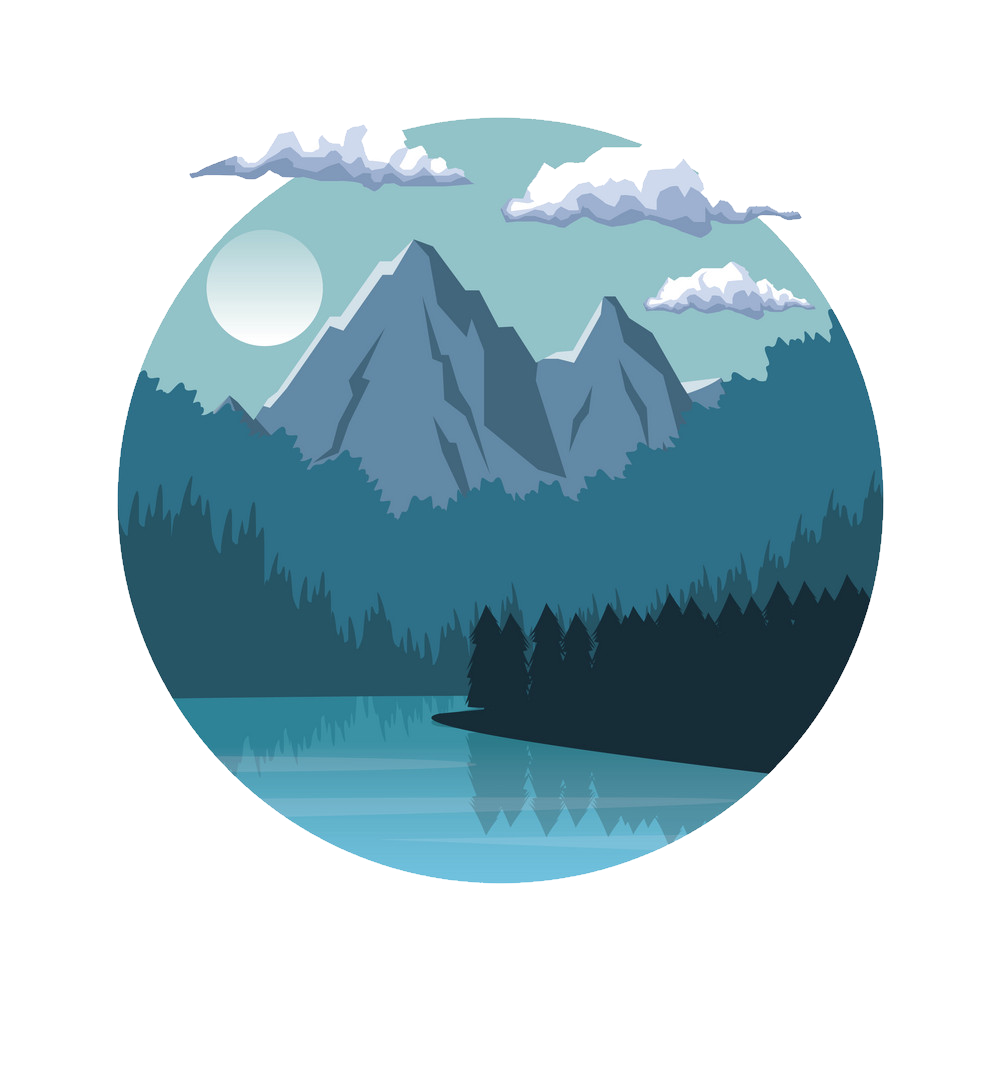
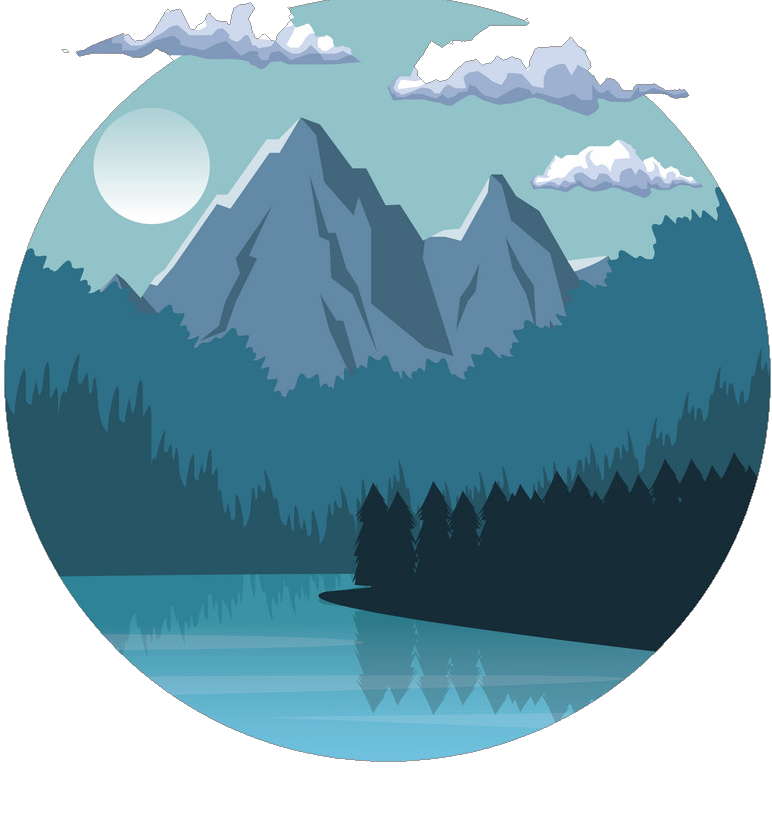
top changed

diff --git a/index.html b/index.html
@@ -24,7 +24,7 @@
             <h1><span class="Orange">my web</span> world!</h1>
             <h3><u class="u1">Program Control Instructions</u>
             </h3>
-            <p>Jump (JMP) instruction allows the programmer to skip sections of a program and branch to
+            <p class="align">Jump (JMP) instruction allows the programmer to skip sections of a program and branch to
                 any part of the memory for the next instruction. Jump (JMP) instruction allows the programmer to skip
                 sections of a program and branch to
                 any part of the memory for the next instruction. Jump (JMP) instruction allows the programmer to skip
@@ -32,16 +32,17 @@
                 any part of the memory for the next instruction.</p>
             <a class="link-button" target="_blank" href="https://www.youtube.com/">HIRE ME</a>
         </div>
-        <div class="half-width"><img src="15006410.png" alt=""></div>
+        <div class="half-width padd1"><img src="15006410.png" alt=""></div>
     </section>
     <section class="dream-big flexible-container">
-        <div class="half-width">
+        <div class="half-width padd2">
             <img src="Circle_Camel_Solid.svg(1).png" alt="">
         </div>
         <div class="half-width">
             <h1>Dream big</h2>
                 <h3><u class="u1">become a web developer</u></h3>
-                <p>Jump (JMP) instruction allows the programmer to skip sections of a program and branch to
+                <p class="align">Jump (JMP) instruction allows the programmer to skip sections of a program and branch
+                    to
                     any part of the memory for the next instruction. Jump (JMP) instruction allows the programmer to
                     skip
                     sections of a program and branch to
@@ -58,7 +59,8 @@
             <div id="full-stack-experience" class="half-width shadow">
                 <h2>Full stack Web Developer</h2>
                 <h3 class="Orange"><u class="u2">2022-present | pro Level Developer</u></h3>
-                <p>Jump (JMP) instruction allows the programmer to skip sections of a program and branch to
+                <p class="align">Jump (JMP) instruction allows the programmer to skip sections of a program and branch
+                    to
                     any part of the memory for the next instruction. Jump (JMP) instruction allows the programmer to
                     skip
                     sections of a program and branch to
@@ -67,7 +69,8 @@
             <div id="web-dev-experience" class="half-width shadow">
                 <h2>Baby Web Developer</h2>
                 <h3 class="Orange"><u>2022-2024 | Hero Learner</u></h3>
-                <p>Jump (JMP) instruction allows the programmer to skip sections of a program and branch to
+                <p class="align">Jump (JMP) instruction allows the programmer to skip sections of a program and branch
+                    to
                     any part of the memory for the next instruction. Jump (JMP) instruction allows the programmer to
                     skip
                     sections of a program and branch to

diff --git a/style.css b/style.css
@@ -44,6 +44,8 @@ h2 {
 .top-banner {
     background-image: url(Untitled.png);
     background-repeat: no-repeat;
+    background-size: cover;
+    background-position: 1636px 648 px;
 }
 
 .dream-big {
@@ -83,10 +85,23 @@ footer p {
     text-align: center;
 }
 
+.padd1 {
+    padding-top: 12%;
+
+}
+
 .u1 {
     color: blue;
 }
 
 .u2 {
     color: rgb(128, 10, 240);
+}
+
+.align {
+    text-align: justify;
+}
+
+.padd2 {
+    padding-top: 5%;
 }
